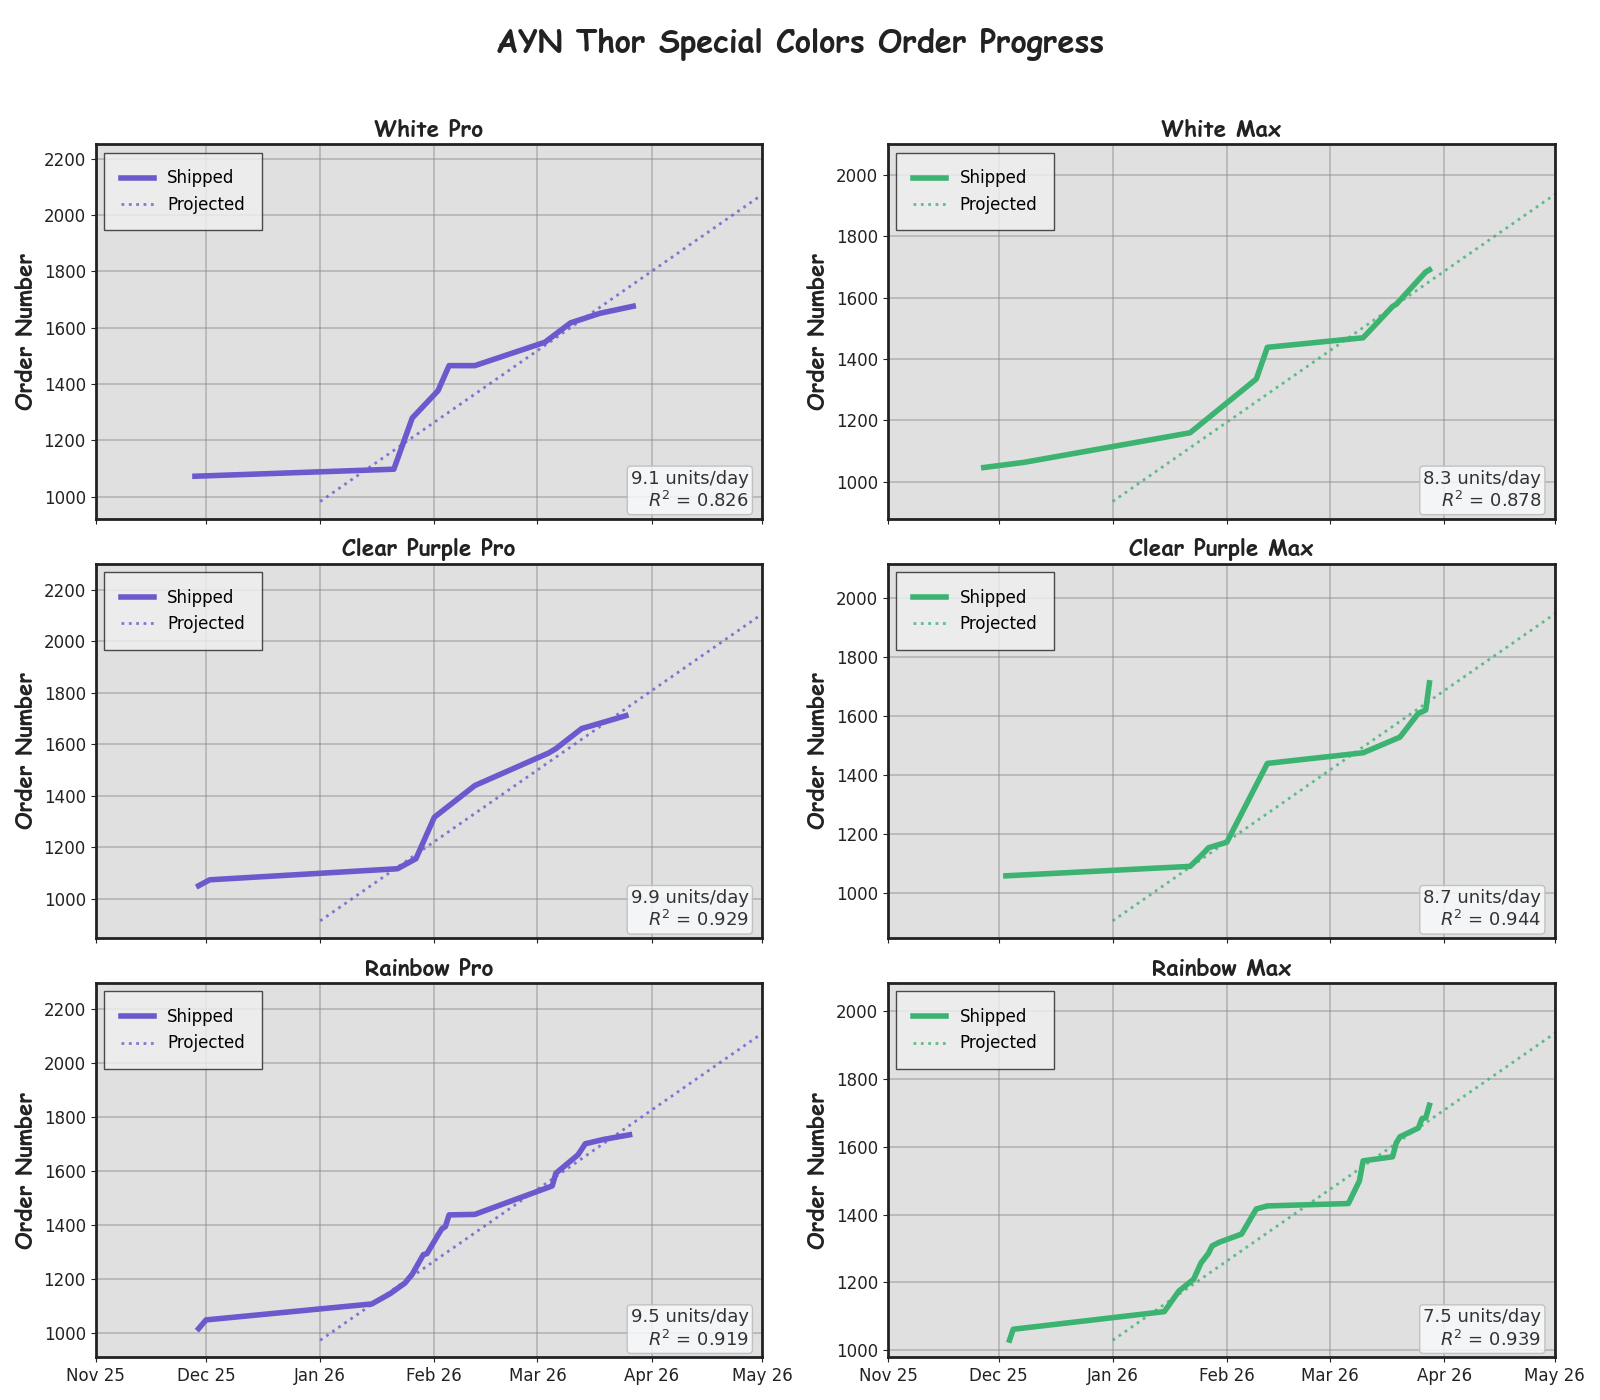
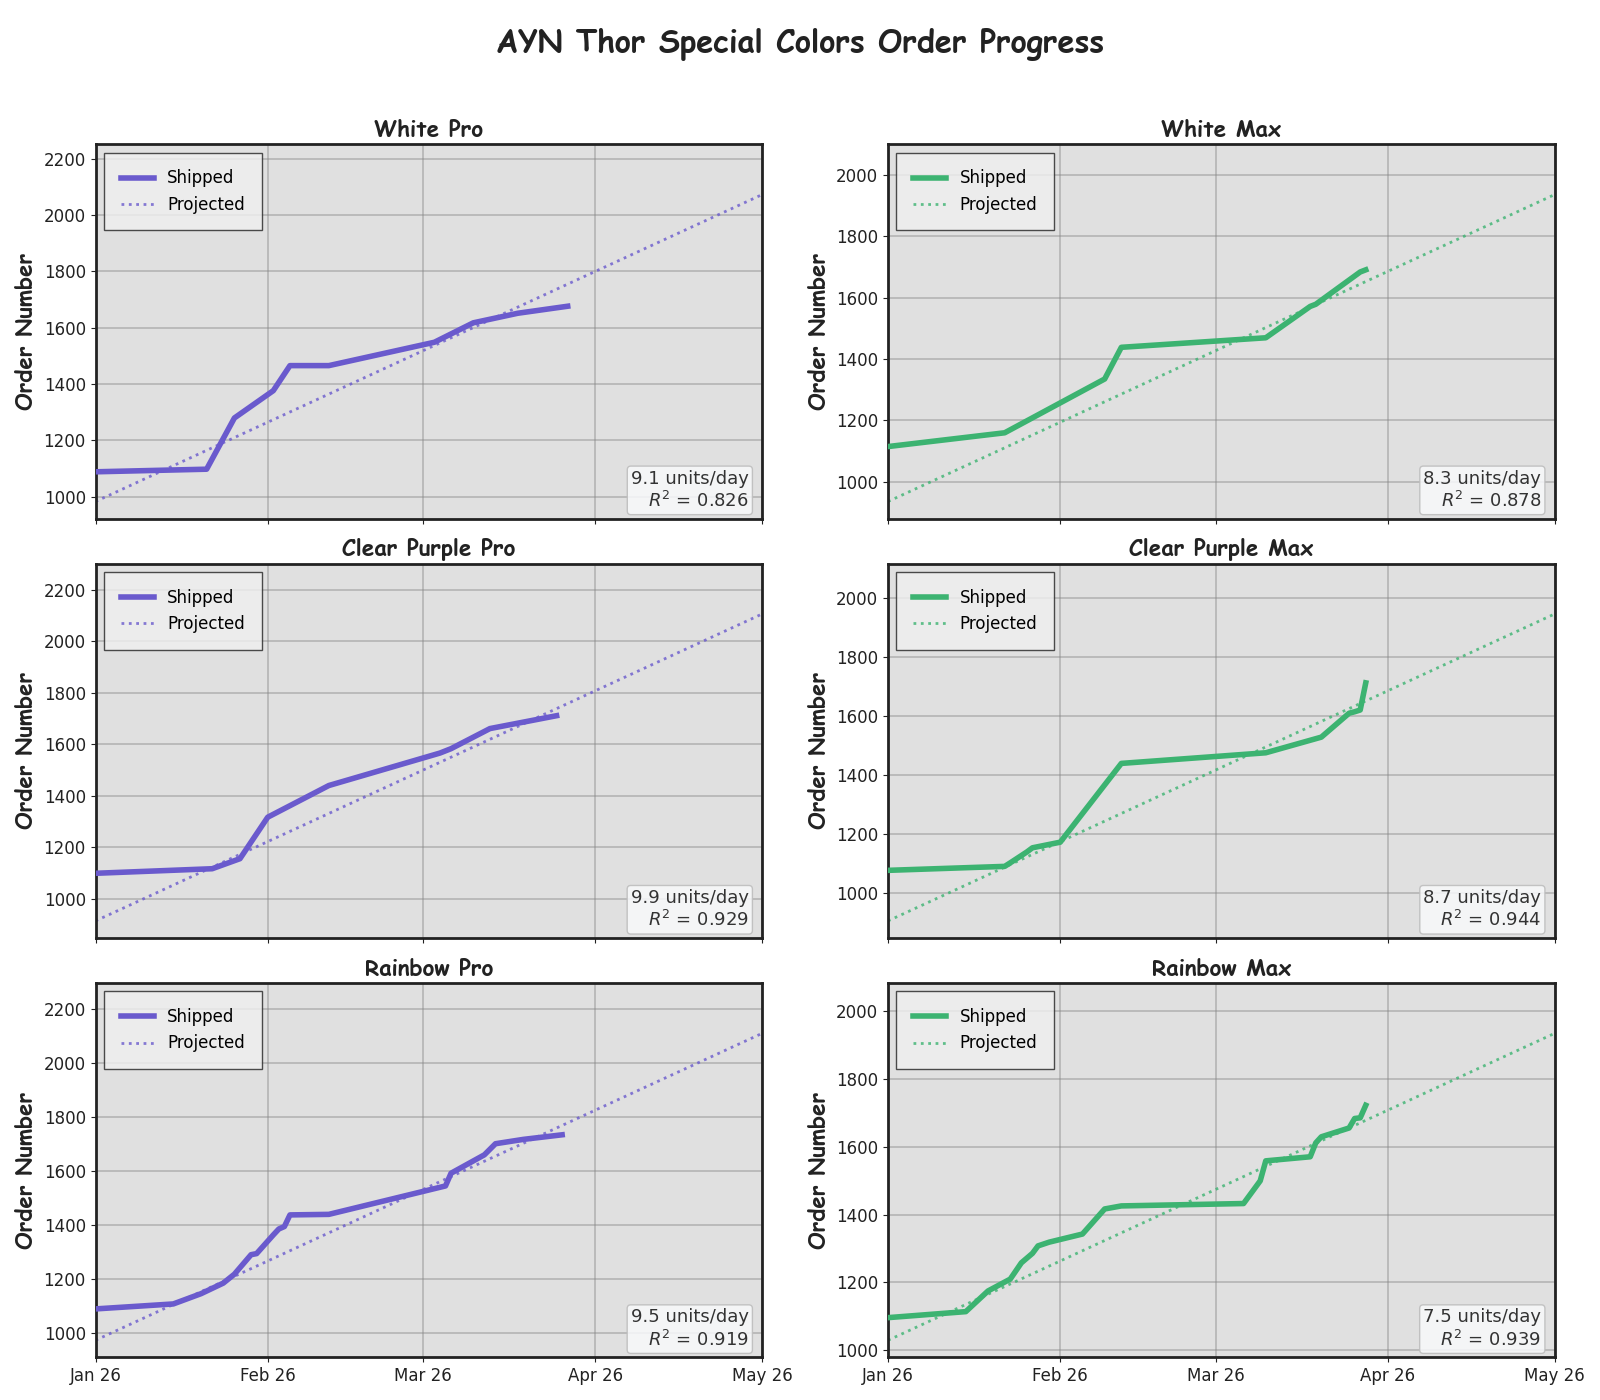
removing first month from graphs

diff --git a/analysis.py b/analysis.py
@@ -208,6 +208,14 @@ def plot_black_models(output_path=None):
         if model_df.empty:
             ax.set_visible(False)
             continue
+        # Calculate x-axis limits, skipping the first month
+        if not model_df.empty:
+            min_date = model_df["date"].min()
+            # Set start to the first day of the month after min_date
+            if min_date.month == 12:
+                start = pd.Timestamp(year=min_date.year + 1, month=1, day=1)
+            else:
+                start = pd.Timestamp(year=min_date.year, month=min_date.month + 1, day=1)
         ax.plot(
             model_df["date"],
             model_df["end"],
@@ -307,6 +315,14 @@ def plot_color_models(output_path=None):
             if model_df.empty:
                 ax.set_visible(False)
                 continue
+            # Calculate x-axis limits, skipping the first month
+            if not model_df.empty:
+                min_date = model_df["date"].min()
+                # Set start to the first day of the month after min_date
+                if min_date.month == 12:
+                    start = pd.Timestamp(year=min_date.year + 1, month=1, day=1)
+                else:
+                    start = pd.Timestamp(year=min_date.year, month=min_date.month + 1, day=1)
             ax.plot(
                 model_df["date"],
                 model_df["end"],
